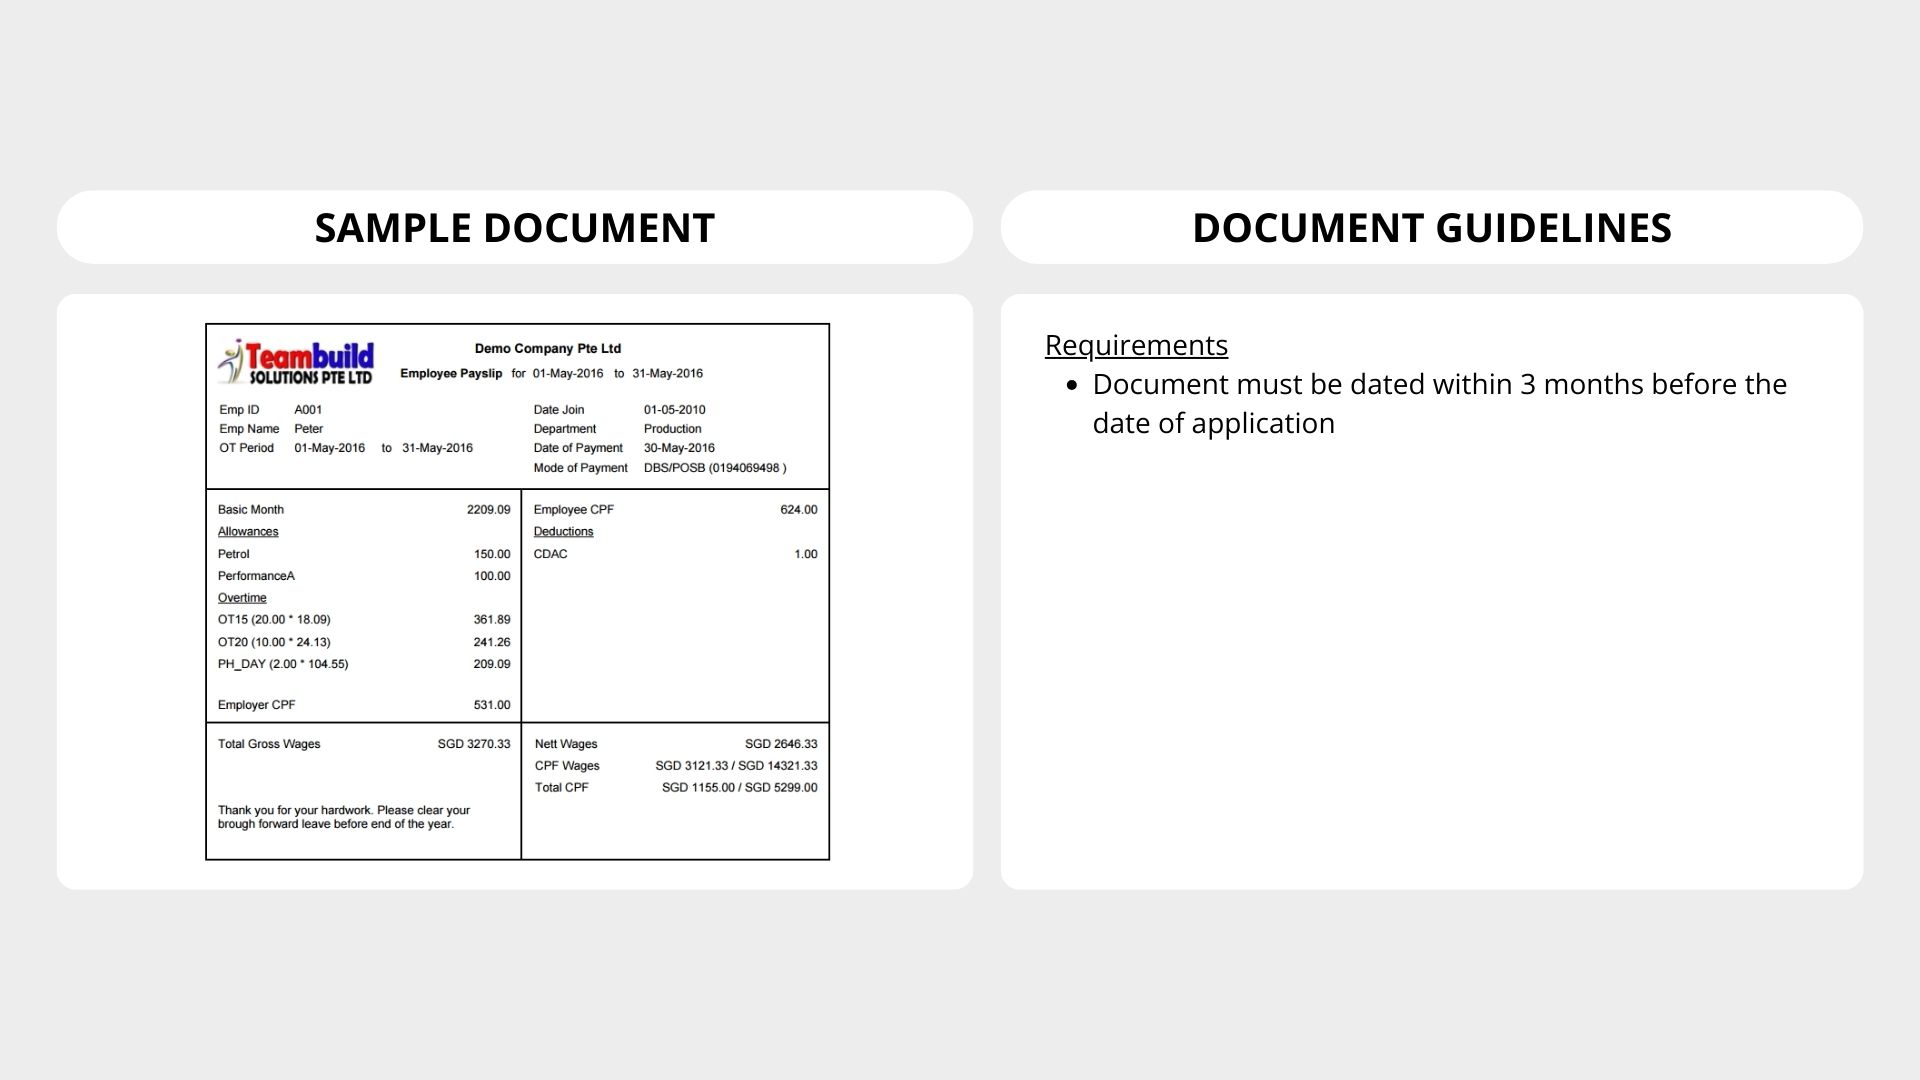
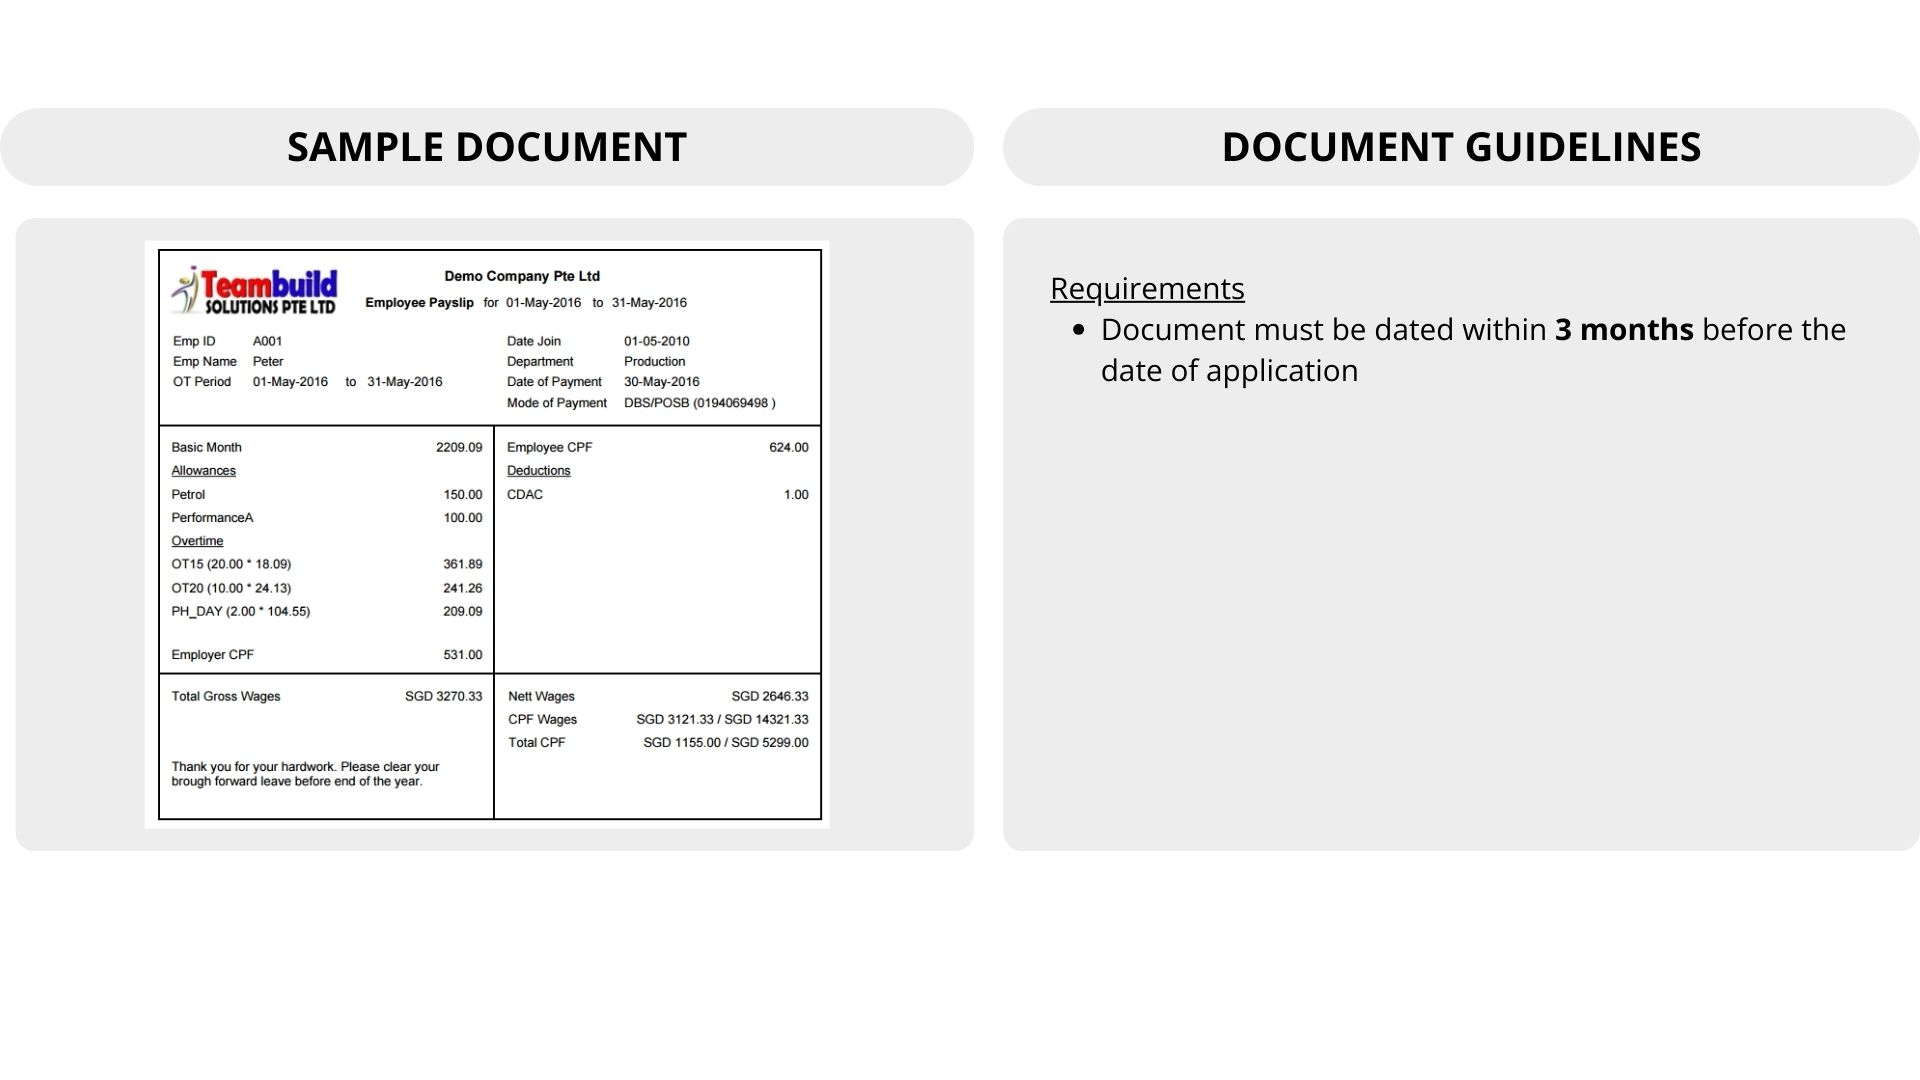
updated-UI

diff --git a/Frontend/app/assets/stylesheets/documentuploadpage/_right_main_content.scss b/Frontend/app/assets/stylesheets/documentuploadpage/_right_main_content.scss
@@ -49,6 +49,7 @@ body {
   width: 100%;
   position: relative;
   font-family: Arial, sans-serif;
+  z-index: 2;
 }
 .tabs input[type="radio"] {
   display: none;
@@ -59,6 +60,7 @@ body {
   padding: 0;
   margin: -40px;
   position: relative;
+  z-index: 3;
 }
 .tabs ul li {
   flex: 1;
@@ -72,6 +74,7 @@ body {
   border: 1px solid #ffffff;
   border-bottom: none;
   background-color: #ffffff;
+  z-index: 4;
 }
 .tabs label:hover {
   background-color: #e0e0e0;
@@ -108,10 +111,10 @@ input[id="tab5"]:checked ~ ul li label[for="tab5"] {
 .content-image {
   width: 100%;   /* Set the desired width */
   height: auto;  /* Maintain aspect ratio */
-  max-width: 800px; /* Maximum width of the image */
-  max-height: 500px; /* Maximum height of the image */
+  max-width: 1100px; /* Maximum width of the image */
+  max-height: 1100px; /* Maximum height of the image */
   display: block;
-  margin: -20px auto; /* Center the image */
+  margin: -80px auto; /* Center the image */
 }
 
 .btn-group {
@@ -132,13 +135,17 @@ input[id="tab5"]:checked ~ ul li label[for="tab5"] {
   color: white;
 }
 
-
 .upload-btn-wrapper {
-  position: relative;
-  display: inline-block;
+  position: fixed;
   text-align: center;
-  margin-top: -40px;
+  top: 88%;
+  left: 40%;
+  animation: content 0.3s ease-in-out;
+  display: inline-block;
+  align-items: center;
+  z-index: 999;
 }
+
 .upload-btn-wrapper:hover {
   cursor: pointer;
 }
@@ -161,6 +168,19 @@ input[id="tab5"]:checked ~ ul li label[for="tab5"] {
   opacity: 0;
 }
 
+.Next{
+  position: fixed;
+  color: white;
+  z-index: 99;
+  top: 105%;
+  display: inline-block;
+  padding: 10px 20px;
+  font-size: 16px;
+  text-decoration: none;
+  background-color: red;
+  text-align: right;
+  border-radius: 5px;
+}
 
 
 
@@ -182,6 +202,7 @@ input[id="tab5"]:checked ~ ul li label[for="tab5"] {
   box-shadow: 0 14px 28px rgba(0, 0, 0, 0.25), 0 10px 10px rgba(0, 0, 0, 0.22);
   border-radius: 5px;
   min-width: #{$tab-count * 60px};
+  z-index: 2;
 
   input[name="tab-control"] {
     display: none;
@@ -357,4 +378,77 @@ input[id="tab5"]:checked ~ ul li label[for="tab5"] {
       }
     }
   }
+}
+
+
+.carousel {
+  width: 100%;   /* Set the desired width */
+  height: 800px;  /* Maintain aspect ratio */
+  max-width: 2000; /* Maximum width of the image */
+  max-height: 800; /* Maximum height of the image */
+  display: block;
+  margin-top: 0px;
+  z-index: 1;
+}
+
+.carousel > ul {
+  margin: 0;
+  padding: 0;
+  list-style: none;
+}
+
+.slide {
+  position: absolute;
+  inset: 0;
+  opacity: 0;
+  transition: 200ms opacity ease-in-out;
+  transition-delay: 200ms;
+  
+
+}
+
+.slide > img {
+  display: block;
+  width: 550%;
+  height: auto;
+  margin-right: 15px;
+}
+
+.slide[data-active] {
+  opacity: 1;
+  z-index: 1;
+  transition-delay: 0ms;
+}
+
+.carousel-button {
+  position: absolute;
+  z-index: 999;
+  background: none;
+  border: none;
+  font-size: 3.5rem;
+  margin-top: 180px;
+  transform: translateY(-50%);
+  color: #FFFFFF;
+  cursor: pointer;
+  border-radius: .25rem;
+  padding: 0 .2rem;
+  background-color: #EDEDED;
+}
+
+.carousel-button:hover,
+.carousel-button:focus {
+  color: white;
+  background-color: rgba(72, 72, 72, 0.2);
+}
+
+.carousel-button:focus {
+  outline: 1px solid black;
+}
+
+.carousel-button.prev {
+  left: 1.4rem;
+}
+
+.carousel-button.next {
+  right: 30.8rem;
 }
